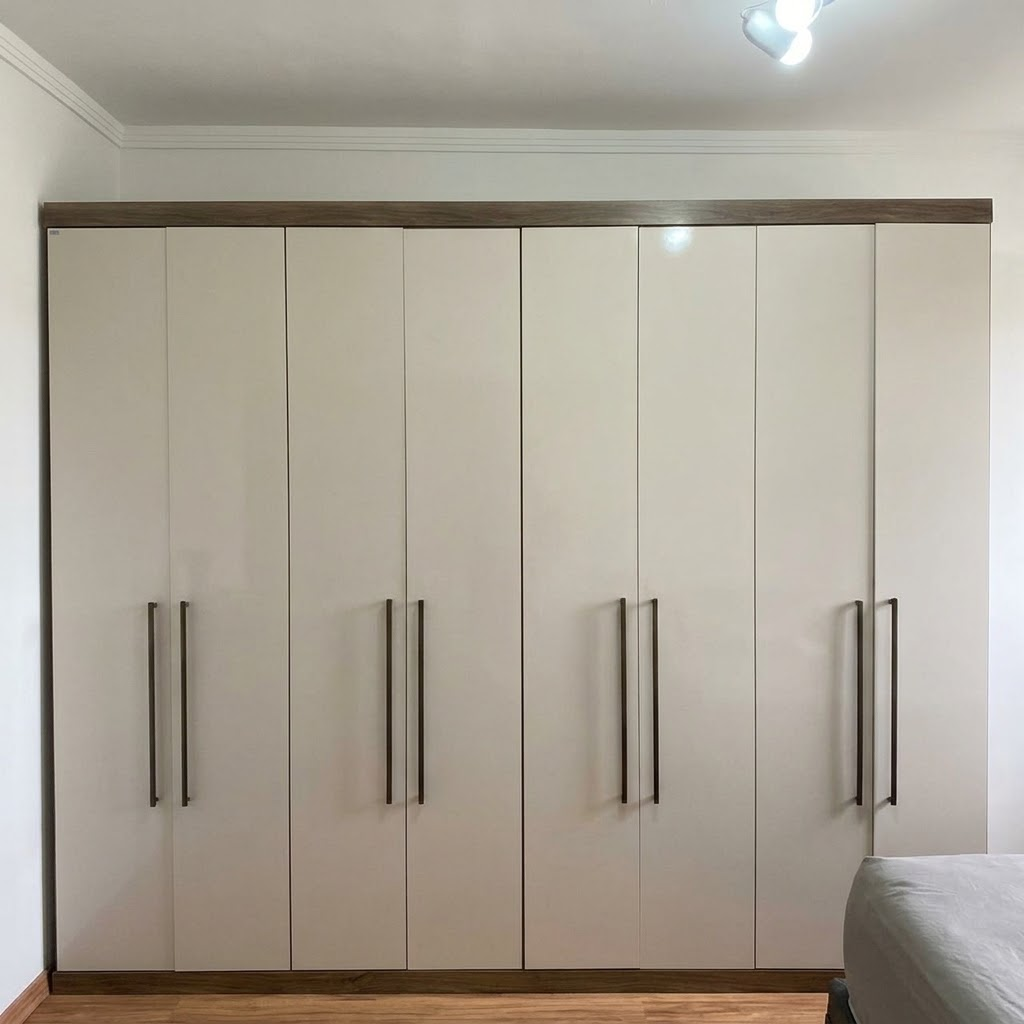
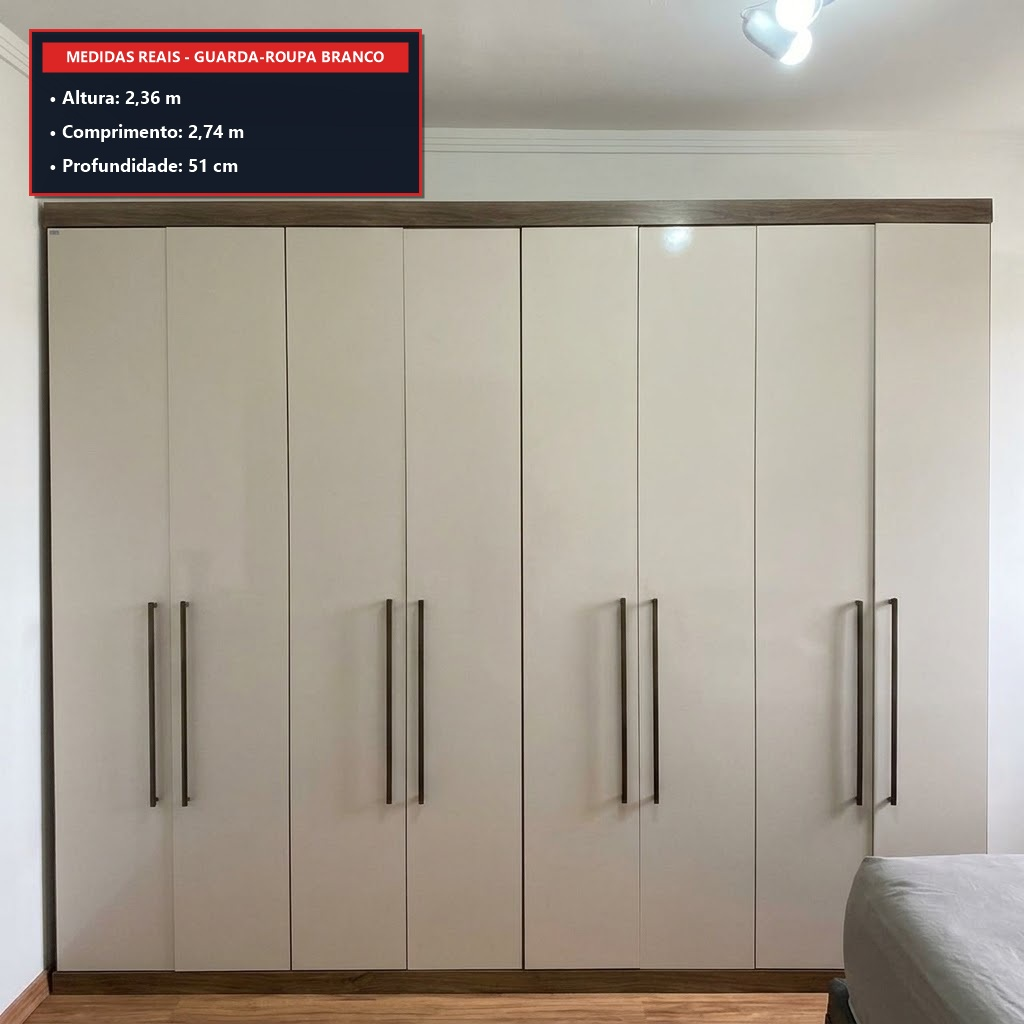
feat: atualizar medidas exatas no site e em badges nas fotos

Changed region(s): [[0.0, 0.0, 0.4375, 0.2188]]

diff --git a/index.html b/index.html
@@ -430,7 +430,7 @@
             <div class="card-price-inline">R$ 850</div>
           </div>
           <div class="card-measure">
-            📏 <strong>Medidas aprox.:</strong> 2,40m (L) x 2,30m (A) x 0,55m (P) • 6 portas
+            📏 <strong>Medidas reais:</strong> Altura 2,36m • Comprimento 2,74m • Profundidade 51cm
           </div>
           <a href="https://api.whatsapp.com/send?phone=5511961343759&text=Ol%C3%A1!%20Tenho%20interesse%20no%20Guarda-Roupa%20Branco%20(R$%20850)%20na%20Av.%20Reserva%20do%20Japy%20360.%20Ainda%20est%C3%A1%20dispon%C3%ADvel?" target="_blank" class="btn-wpp">
             <svg class="wpp-icon" viewBox="0 0 24 24"><path d="M12.031 6.172c-3.181 0-5.767 2.586-5.768 5.766-.001 1.298.38 2.27 1.019 3.287l-.582 2.128 2.182-.573c.978.58 1.911.928 3.145.929 3.178 0 5.767-2.587 5.768-5.766.001-3.187-2.575-5.77-5.764-5.771zm3.392 8.244c-.144.405-.837.774-1.17.824-.299.045-.677.063-1.092-.069-.252-.08-.575-.187-.988-.365-1.739-.751-2.874-2.502-2.961-2.617-.087-.116-.708-.94-.708-1.793s.448-1.273.607-1.446c.159-.173.346-.217.462-.217l.332.007c.106.005.249-.04.39.299.144.347.491 1.2.534 1.287.043.087.072.188.014.303-.058.116-.087.188-.173.289l-.26.303c-.087.087-.177.182-.076.356.101.174.449.741.964 1.201.662.591 1.221.774 1.394.861.173.086.275.072.376-.044.101-.116.433-.506.549-.68.116-.173.231-.145.39-.087s1.011.477 1.184.564.289.13.332.202c.043.073.043.419-.101.825zM12 2C6.477 2 2 6.477 2 12c0 1.821.487 3.53 1.338 5L2.05 21.95l5.097-1.335C8.584 21.487 10.237 22 12 22c5.523 0 10-4.477 10-10S17.523 2 12 2z"/></svg>
@@ -452,7 +452,7 @@
             <div class="card-price-inline">R$ 650</div>
           </div>
           <div class="card-measure">
-            📏 <strong>Medidas aprox.:</strong> 2,20m (L) x 2,30m (A) x 0,55m (P) • 6 portas
+            📏 <strong>Medidas reais:</strong> Altura 2,36m • Comprimento 2,40m • Profundidade 51,5cm
           </div>
           <a href="https://api.whatsapp.com/send?phone=5511961343759&text=Ol%C3%A1!%20Tenho%20interesse%20no%20Guarda-Roupa%20Marrom%20(R$%20650)%20na%20Av.%20Reserva%20do%20Japy%20360.%20Ainda%20est%C3%A1%20dispon%C3%ADvel?" target="_blank" class="btn-wpp">
             <svg class="wpp-icon" viewBox="0 0 24 24"><path d="M12.031 6.172c-3.181 0-5.767 2.586-5.768 5.766-.001 1.298.38 2.27 1.019 3.287l-.582 2.128 2.182-.573c.978.58 1.911.928 3.145.929 3.178 0 5.767-2.587 5.768-5.766.001-3.187-2.575-5.77-5.764-5.771zm3.392 8.244c-.144.405-.837.774-1.17.824-.299.045-.677.063-1.092-.069-.252-.08-.575-.187-.988-.365-1.739-.751-2.874-2.502-2.961-2.617-.087-.116-.708-.94-.708-1.793s.448-1.273.607-1.446c.159-.173.346-.217.462-.217l.332.007c.106.005.249-.04.39.299.144.347.491 1.2.534 1.287.043.087.072.188.014.303-.058.116-.087.188-.173.289l-.26.303c-.087.087-.177.182-.076.356.101.174.449.741.964 1.201.662.591 1.221.774 1.394.861.173.086.275.072.376-.044.101-.116.433-.506.549-.68.116-.173.231-.145.39-.087s1.011.477 1.184.564.289.13.332.202c.043.073.043.419-.101.825zM12 2C6.477 2 2 6.477 2 12c0 1.821.487 3.53 1.338 5L2.05 21.95l5.097-1.335C8.584 21.487 10.237 22 12 22c5.523 0 10-4.477 10-10S17.523 2 12 2z"/></svg>
@@ -466,7 +466,7 @@
         <div class="card-photo" onclick="window.open('https://api.whatsapp.com/send?phone=5511961343759&text=Ol%C3%A1!%20Tenho%20interesse%20no%20Arm%C3%A1rio%20de%20Cozinha%20Completo%20(3%20pe%C3%A7as%20por%20R$%20300)%20na%20Av.%20Reserva%20do%20Japy%20360.', '_blank')">
           <img id="imgCozinha" src="watermarked_img_8190455226252873224.jpg" alt="Armário de Cozinha Completo" loading="lazy">
           <div class="card-price-badge">R$ 300</div>
-          <div class="card-combo-tag">Jogo Completo com 3 peças!</div>
+          <div class="card-combo-tag">Jogo Completo com todas as peças!</div>
         </div>
         <!-- Toque para ver cada peça -->
         <div class="thumbs-row">
@@ -482,11 +482,15 @@
         </div>
         <div class="card-content">
           <div class="card-header-line">
-            <h2 class="card-name">Armário Cozinha Completo (3 Peças)</h2>
+            <h2 class="card-name">Armário Cozinha Completo (Módulos)</h2>
             <div class="card-price-inline">R$ 300</div>
           </div>
           <div class="card-measure">
-            🍳 <strong>Inclui:</strong> Aéreo com nicho + Balcão com tampo + Torre Paneleiro
+            🍳 <strong>Medidas reais:</strong><br>
+            • <strong>Parte Superior (Aéreo):</strong> Alt: 46cm (menor 25cm) | Comp: 1,52m | Prof: 27cm<br>
+            • <strong>Balcão com Tampo:</strong> Alt: 83cm | Comp: 50cm | Prof: 38cm<br>
+            • <strong>Torre:</strong> Alt: 2,12m | Comp: 41cm | Prof: 31cm<br>
+            • <strong>Paneleiro (ao lado):</strong> Alt: 1,15m | Comp: 50cm | Prof: 25cm
           </div>
           <a href="https://api.whatsapp.com/send?phone=5511961343759&text=Ol%C3%A1!%20Tenho%20interesse%20no%20Arm%C3%A1rio%20de%20Cozinha%20Completo%20(3%20pe%C3%A7as%20por%20R$%20300)%20na%20Av.%20Reserva%20do%20Japy%20360." target="_blank" class="btn-wpp">
             <svg class="wpp-icon" viewBox="0 0 24 24"><path d="M12.031 6.172c-3.181 0-5.767 2.586-5.768 5.766-.001 1.298.38 2.27 1.019 3.287l-.582 2.128 2.182-.573c.978.58 1.911.928 3.145.929 3.178 0 5.767-2.587 5.768-5.766.001-3.187-2.575-5.77-5.764-5.771zm3.392 8.244c-.144.405-.837.774-1.17.824-.299.045-.677.063-1.092-.069-.252-.08-.575-.187-.988-.365-1.739-.751-2.874-2.502-2.961-2.617-.087-.116-.708-.94-.708-1.793s.448-1.273.607-1.446c.159-.173.346-.217.462-.217l.332.007c.106.005.249-.04.39.299.144.347.491 1.2.534 1.287.043.087.072.188.014.303-.058.116-.087.188-.173.289l-.26.303c-.087.087-.177.182-.076.356.101.174.449.741.964 1.201.662.591 1.221.774 1.394.861.173.086.275.072.376-.044.101-.116.433-.506.549-.68.116-.173.231-.145.39-.087s1.011.477 1.184.564.289.13.332.202c.043.073.043.419-.101.825zM12 2C6.477 2 2 6.477 2 12c0 1.821.487 3.53 1.338 5L2.05 21.95l5.097-1.335C8.584 21.487 10.237 22 12 22c5.523 0 10-4.477 10-10S17.523 2 12 2z"/></svg>
@@ -507,7 +511,7 @@
             <div class="card-price-inline">R$ 200</div>
           </div>
           <div class="card-measure">
-            🛏 <strong>Medidas aprox.:</strong> Padrão solteiro 1,90m x 0,90m • Cama extra retrátil
+            🛏 <strong>Medidas reais:</strong> Altura 61cm • Comprimento 1,00m • Profundidade 2,00m
           </div>
           <a href="https://api.whatsapp.com/send?phone=5511961343759&text=Ol%C3%A1!%20Tenho%20interesse%20na%20Bicama%20de%20Solteiro%20(R$%20200)%20na%20Av.%20Reserva%20do%20Japy%20360." target="_blank" class="btn-wpp">
             <svg class="wpp-icon" viewBox="0 0 24 24"><path d="M12.031 6.172c-3.181 0-5.767 2.586-5.768 5.766-.001 1.298.38 2.27 1.019 3.287l-.582 2.128 2.182-.573c.978.58 1.911.928 3.145.929 3.178 0 5.767-2.587 5.768-5.766.001-3.187-2.575-5.77-5.764-5.771zm3.392 8.244c-.144.405-.837.774-1.17.824-.299.045-.677.063-1.092-.069-.252-.08-.575-.187-.988-.365-1.739-.751-2.874-2.502-2.961-2.617-.087-.116-.708-.94-.708-1.793s.448-1.273.607-1.446c.159-.173.346-.217.462-.217l.332.007c.106.005.249-.04.39.299.144.347.491 1.2.534 1.287.043.087.072.188.014.303-.058.116-.087.188-.173.289l-.26.303c-.087.087-.177.182-.076.356.101.174.449.741.964 1.201.662.591 1.221.774 1.394.861.173.086.275.072.376-.044.101-.116.433-.506.549-.68.116-.173.231-.145.39-.087s1.011.477 1.184.564.289.13.332.202c.043.073.043.419-.101.825zM12 2C6.477 2 2 6.477 2 12c0 1.821.487 3.53 1.338 5L2.05 21.95l5.097-1.335C8.584 21.487 10.237 22 12 22c5.523 0 10-4.477 10-10S17.523 2 12 2z"/></svg>
@@ -528,7 +532,7 @@
             <div class="card-price-inline">R$ 100</div>
           </div>
           <div class="card-measure">
-            📺 <strong>Medidas aprox.:</strong> 1,50m (L) x 0,48m (A) x 0,38m (P) • Madeira maciça/pinus
+            📺 <strong>Medidas reais:</strong> Altura 43cm • Comprimento 1,60m • Profundidade 36cm
           </div>
           <a href="https://api.whatsapp.com/send?phone=5511961343759&text=Ol%C3%A1!%20Tenho%20interesse%20no%20Hack%20para%20Sala%20(R$%20100)%20na%20Av.%20Reserva%20do%20Japy%20360." target="_blank" class="btn-wpp">
             <svg class="wpp-icon" viewBox="0 0 24 24"><path d="M12.031 6.172c-3.181 0-5.767 2.586-5.768 5.766-.001 1.298.38 2.27 1.019 3.287l-.582 2.128 2.182-.573c.978.58 1.911.928 3.145.929 3.178 0 5.767-2.587 5.768-5.766.001-3.187-2.575-5.77-5.764-5.771zm3.392 8.244c-.144.405-.837.774-1.17.824-.299.045-.677.063-1.092-.069-.252-.08-.575-.187-.988-.365-1.739-.751-2.874-2.502-2.961-2.617-.087-.116-.708-.94-.708-1.793s.448-1.273.607-1.446c.159-.173.346-.217.462-.217l.332.007c.106.005.249-.04.39.299.144.347.491 1.2.534 1.287.043.087.072.188.014.303-.058.116-.087.188-.173.289l-.26.303c-.087.087-.177.182-.076.356.101.174.449.741.964 1.201.662.591 1.221.774 1.394.861.173.086.275.072.376-.044.101-.116.433-.506.549-.68.116-.173.231-.145.39-.087s1.011.477 1.184.564.289.13.332.202c.043.073.043.419-.101.825zM12 2C6.477 2 2 6.477 2 12c0 1.821.487 3.53 1.338 5L2.05 21.95l5.097-1.335C8.584 21.487 10.237 22 12 22c5.523 0 10-4.477 10-10S17.523 2 12 2z"/></svg>
@@ -549,7 +553,7 @@
             <div class="card-price-inline">R$ 100</div>
           </div>
           <div class="card-measure">
-            💻 <strong>Medidas aprox.:</strong> 1,20m (L) x 0,75m (A) x 0,60m (P) • Tampo preto e pés em aço
+            💻 <strong>Medidas reais:</strong> Altura 74cm • Comprimento 1,20m • Profundidade 60cm
           </div>
           <a href="https://api.whatsapp.com/send?phone=5511961343759&text=Ol%C3%A1!%20Tenho%20interesse%20na%20Mesa%20de%20Escrit%C3%B3rio%20(R$%20100)%20na%20Av.%20Reserva%20do%20Japy%20360." target="_blank" class="btn-wpp">
             <svg class="wpp-icon" viewBox="0 0 24 24"><path d="M12.031 6.172c-3.181 0-5.767 2.586-5.768 5.766-.001 1.298.38 2.27 1.019 3.287l-.582 2.128 2.182-.573c.978.58 1.911.928 3.145.929 3.178 0 5.767-2.587 5.768-5.766.001-3.187-2.575-5.77-5.764-5.771zm3.392 8.244c-.144.405-.837.774-1.17.824-.299.045-.677.063-1.092-.069-.252-.08-.575-.187-.988-.365-1.739-.751-2.874-2.502-2.961-2.617-.087-.116-.708-.94-.708-1.793s.448-1.273.607-1.446c.159-.173.346-.217.462-.217l.332.007c.106.005.249-.04.39.299.144.347.491 1.2.534 1.287.043.087.072.188.014.303-.058.116-.087.188-.173.289l-.26.303c-.087.087-.177.182-.076.356.101.174.449.741.964 1.201.662.591 1.221.774 1.394.861.173.086.275.072.376-.044.101-.116.433-.506.549-.68.116-.173.231-.145.39-.087s1.011.477 1.184.564.289.13.332.202c.043.073.043.419-.101.825zM12 2C6.477 2 2 6.477 2 12c0 1.821.487 3.53 1.338 5L2.05 21.95l5.097-1.335C8.584 21.487 10.237 22 12 22c5.523 0 10-4.477 10-10S17.523 2 12 2z"/></svg>

diff --git a/cozinha.html b/cozinha.html
@@ -82,10 +82,11 @@
         </div>
 
         <div class="card-measure">
-          🍳 <strong>Composição:</strong><br>
-          • 1 Armário Aéreo com nicho superior<br>
-          • 1 Balcão 2 portas com tampo escuro<br>
-          • 1 Torre vertical / Paneleiro alto com nicho para micro-ondas<br>
+          🍳 <strong>Medidas reais de cada módulo:</strong><br>
+          • <strong>Parte Superior (Aéreo):</strong> Altura 46cm (parte menor 25cm) | Comprimento 1,52m | Profundidade 27cm<br>
+          • <strong>Balcão com Tampo:</strong> Altura 83cm | Comprimento 50cm | Profundidade 38cm<br>
+          • <strong>Torre Alta:</strong> Altura 2,12m | Comprimento 41cm | Profundidade 31cm<br>
+          • <strong>Paneleiro (ao lado da torre):</strong> Altura 1,15m | Comprimento 50cm | Profundidade 25cm<br>
           📍 <strong>Retirada:</strong> Av. Reserva do Japy, 360 - Jundiaí/SP (PIX ou Dinheiro)
         </div>
 

diff --git a/mesa.html b/mesa.html
@@ -60,7 +60,7 @@
         <h1 class="card-name">Mesa de Escritório / Home Office Industrial</h1>
 
         <div class="card-measure">
-          📏 <strong>Medidas aprox.:</strong> 1,20m (L) x 0,75m (A) x 0,60m (P)<br>
+          📏 <strong>Medidas reais:</strong> Altura 74cm • Comprimento 1,20m • Profundidade 60cm<br>
           💻 <strong>Detalhes:</strong> Design estilo industrial com tampo preto fosco e estrutura resistente de pés em aço preto.<br>
           📍 <strong>Retirada:</strong> Av. Reserva do Japy, 360 - Jundiaí/SP (PIX ou Dinheiro)
         </div>

diff --git a/rack.html b/rack.html
@@ -60,7 +60,7 @@
         <h1 class="card-name">Hack / Rack para Sala Usado de Madeira</h1>
 
         <div class="card-measure">
-          📏 <strong>Medidas aprox.:</strong> 1,50m (L) x 0,48m (A) x 0,38m (P)<br>
+          📏 <strong>Medidas reais:</strong> Altura 43cm • Comprimento 1,60m • Profundidade 36cm<br>
           🪵 <strong>Detalhes:</strong> Madeira natural maciça/pinus envernizado com 2 nichos espaçosos para livros e cestos.<br>
           📍 <strong>Retirada:</strong> Av. Reserva do Japy, 360 - Jundiaí/SP (PIX ou Dinheiro)
         </div>

diff --git a/bicama.html b/bicama.html
@@ -60,7 +60,7 @@
         <h1 class="card-name">Bicama de Solteiro Usada c/ Cama Auxiliar</h1>
 
         <div class="card-measure">
-          📏 <strong>Medidas aprox.:</strong> Padrão solteiro 1,90m x 0,90m<br>
+          📏 <strong>Medidas reais:</strong> Altura 61cm • Comprimento 1,00m • Profundidade 2,00m<br>
           🛏 <strong>Detalhes:</strong> Estrutura estofada reforçada com gavetão deslizante e cama extra inferior.<br>
           📍 <strong>Retirada:</strong> Av. Reserva do Japy, 360 - Jundiaí/SP (PIX ou Dinheiro)
         </div>

diff --git a/armario-marrom.html b/armario-marrom.html
@@ -65,7 +65,7 @@
         </div>
 
         <div class="card-measure">
-          📏 <strong>Medidas aprox.:</strong> 2,20m (Largura) x 2,30m (Altura) x 0,55m (Profundidade)<br>
+          📏 <strong>Medidas reais:</strong> Altura 2,36m • Comprimento 2,40m • Profundidade 51,5cm<br>
           🚪 <strong>Detalhes:</strong> 6 portas amplas com puxadores cromados e padrão amadeirado rústico.<br>
           📍 <strong>Retirada:</strong> Av. Reserva do Japy, 360 - Jundiaí/SP (PIX ou Dinheiro)
         </div>

diff --git a/armario-branco.html b/armario-branco.html
@@ -79,7 +79,7 @@
         </div>
 
         <div class="card-measure">
-          📏 <strong>Medidas aprox.:</strong> 2,40m (Largura) x 2,30m (Altura) x 0,55m (Profundidade)<br>
+          📏 <strong>Medidas reais:</strong> Altura 2,36m • Comprimento 2,74m • Profundidade 51cm<br>
           🚪 <strong>Detalhes:</strong> 6 portas altas com puxadores em perfil, moldura amadeirada nobre.<br>
           📍 <strong>Retirada:</strong> Av. Reserva do Japy, 360 - Jundiaí/SP (PIX ou Dinheiro)
         </div>
